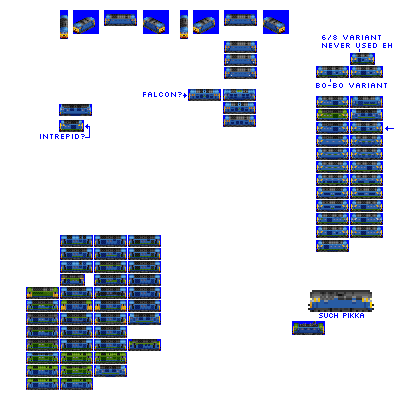
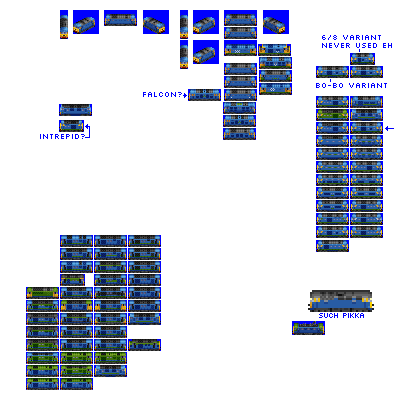
Change: WIP on railfreight alt livery for Intrepid

Changed region(s): [[0.45, 0.06, 0.75, 0.36]]

diff --git a/src/vehicles/intrepid.py b/src/vehicles/intrepid.py
@@ -15,7 +15,8 @@ def main(roster_id):
         fixed_run_cost_points=40,  # give a bonus so this can be a genuine mixed-traffic engine
         intro_date_offset=6,  # let's be later for this one
         default_livery_extra_docs_examples=[("COLOUR_GREEN", "COLOUR_WHITE")],
-        sprites_complete=True,
+        alternative_cc_livery="RAILFREIGHT_RED_STRIPE",
+        sprites_complete=False,
     )
 
     consist.add_unit(
